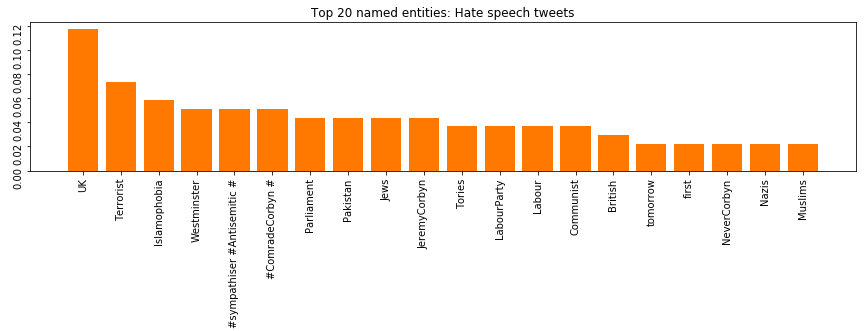
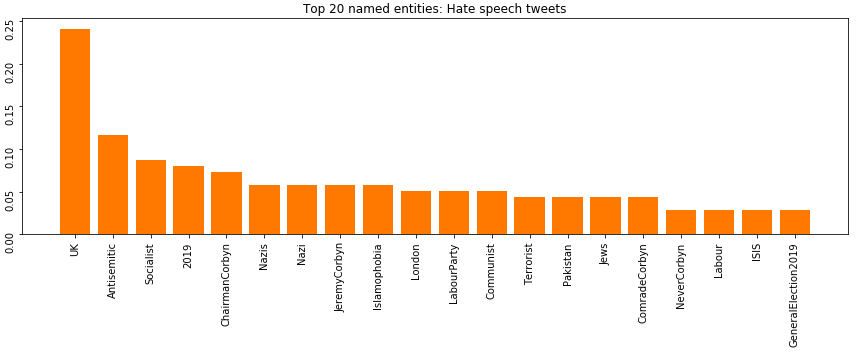
Even more entity changes

Changed region(s): [[0.0, 0.0, 1.0, 0.997], [0.0, 0.6344, 0.0303, 0.7251]]

diff --git a/Report/project_15_report.tex b/Report/project_15_report.tex
@@ -327,9 +327,9 @@ We investigated the use of named entities and their frequency in tweets containi
 
 <Graph of entities in non hate tweets>
 
-Note the high frequency of Terrorist and Islamophobia in tweets containing hate speech. Since the hashtags and the words used in them are recognized as named entities, these entities are high on the list since they were words used to collect tweet used in this study.
-In tweets containing hate speech other frequent named entities are closely related to UK and their current political situation. Jeremy Corbyn, his political party and his relations with Pakistan were mentioned in many of the hate speech tweets.
-The same trend of named entities can be seen in the frequent entities used in tweets that did not contain hate speech. Many of the most frequent entities are related to United Kingdom and Jeremy Corbyn. Other frequent topic that can be seen in this list is the conflict between Pakistan and India, with many of the entities related to these countries and their major religions, Hinduism and Islam.
+In tweets containing hate speech frequent named entities are closely related to UK and their current political situation. Jeremy Corbyn, his political party and his relations with Pakistan were mentioned in many of the hate speech tweets.
+The hate speech entity list also contains a high number of words closely associated with general hate speech, such as Nazi and Islamophobia.
+The same trend of named entities can be seen in the frequent entities used in tweets that did not contain hate speech. Many of the most frequent entities are related to United Kingdom and Jeremy Corbyn. Other frequent topic that can be seen in this list is the conflict between Pakistan and India, with entities related to these countries and their major religions, Hinduism and Islam.
 
 \subsection{Named phrases}
 TODO

diff --git a/named_entities.py b/named_entities.py
@@ -16,6 +16,7 @@ def get_named_entities(tweets):
     for tweet in tweets:
         category = ""
         text = clean_tweet_text(get_tweet_text(tweet))
+        text = text.replace("#"," ")
 
         if tweet["hate_speech"]:
             category = ENTITY_HATE
@@ -25,8 +26,6 @@ def get_named_entities(tweets):
             num_non_hate += 1
         doc = nlp(text)
         for ent in doc.ents:
-            if ent.text == "#":
-                break
             if ent.text in results[category]:
                 #Way to increase the counter
                 results[category][ent.text] += 1
